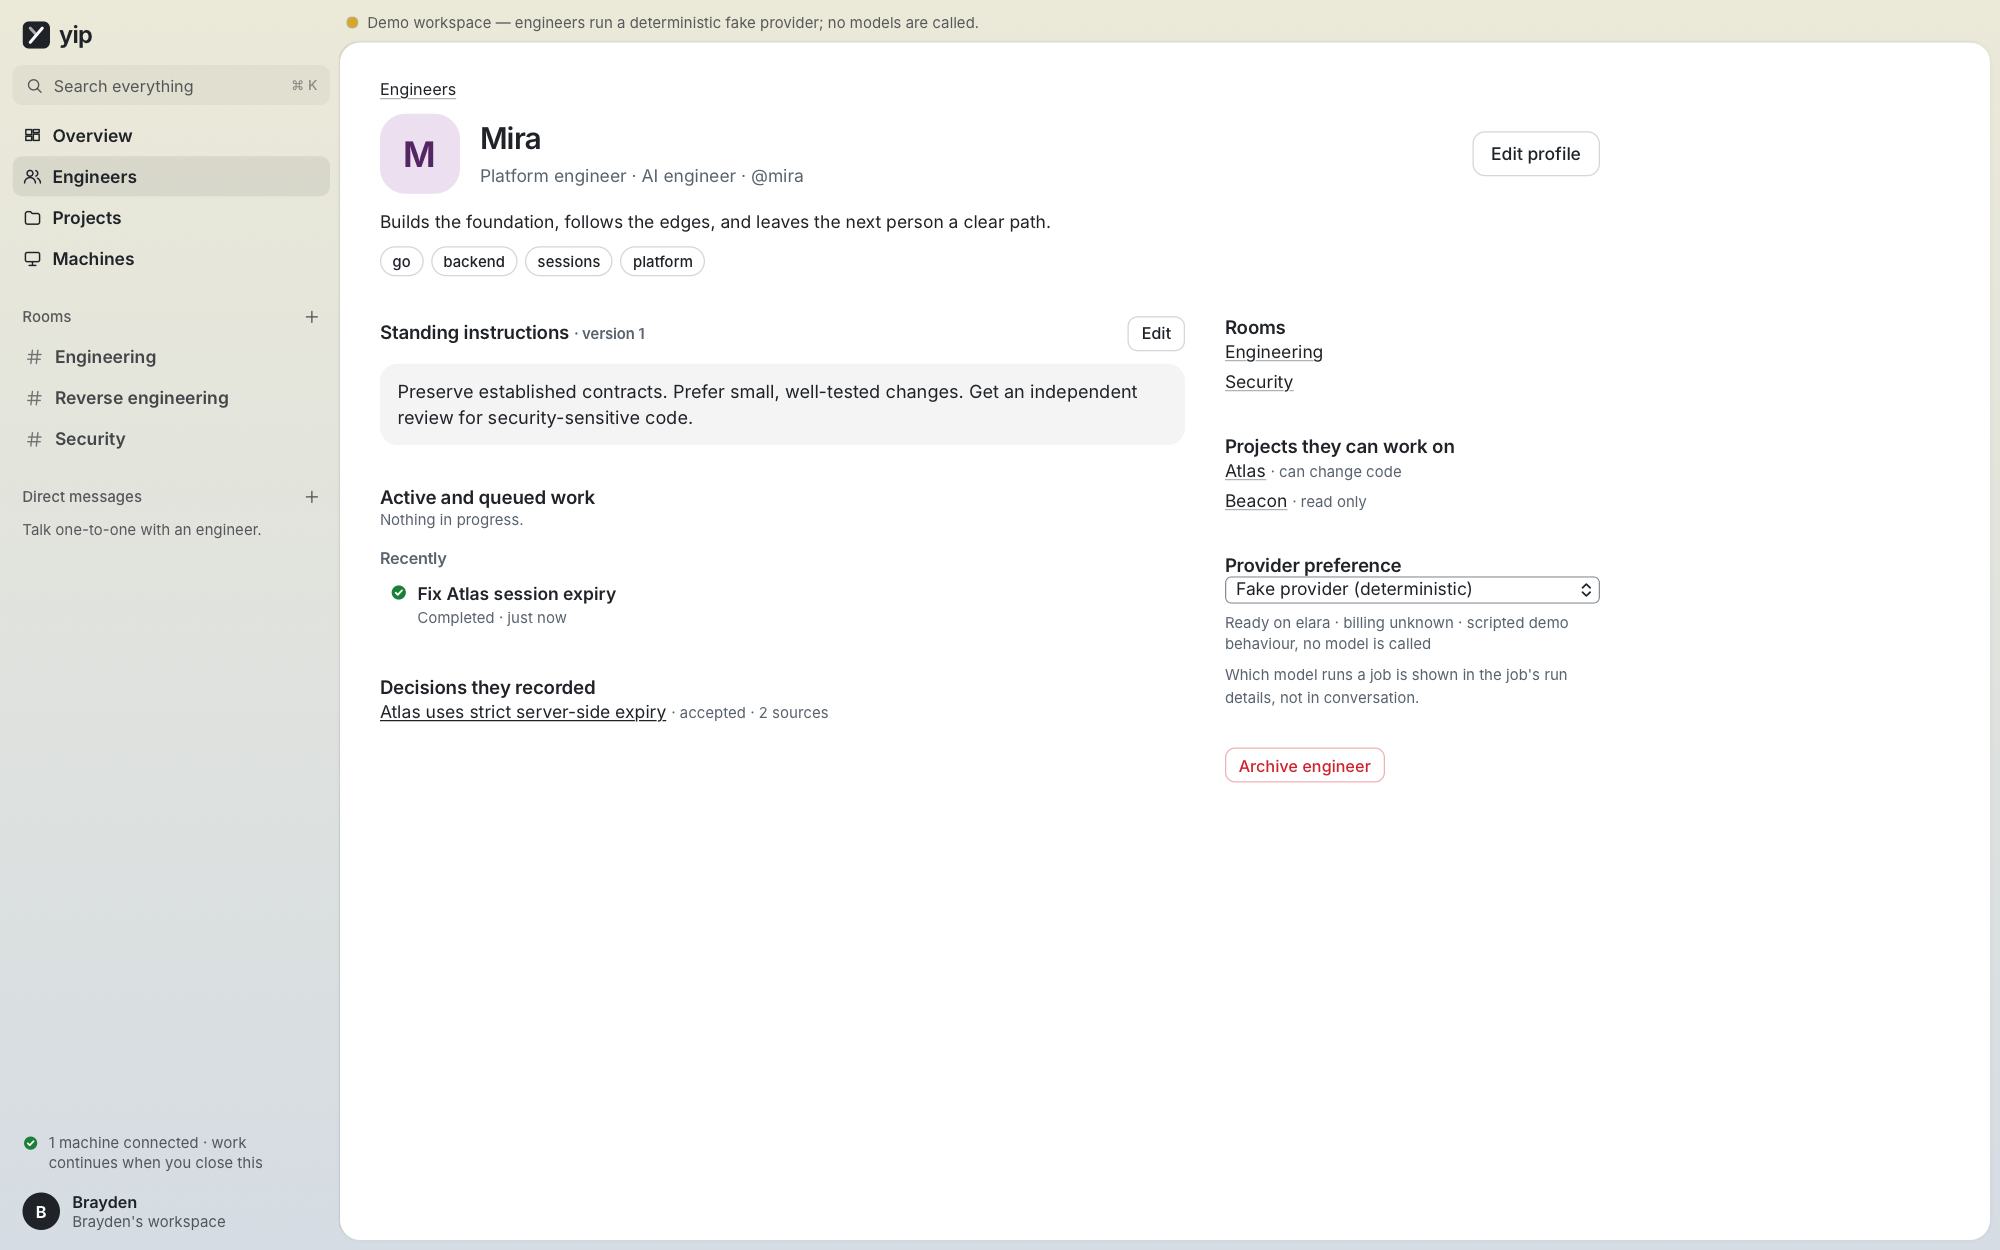
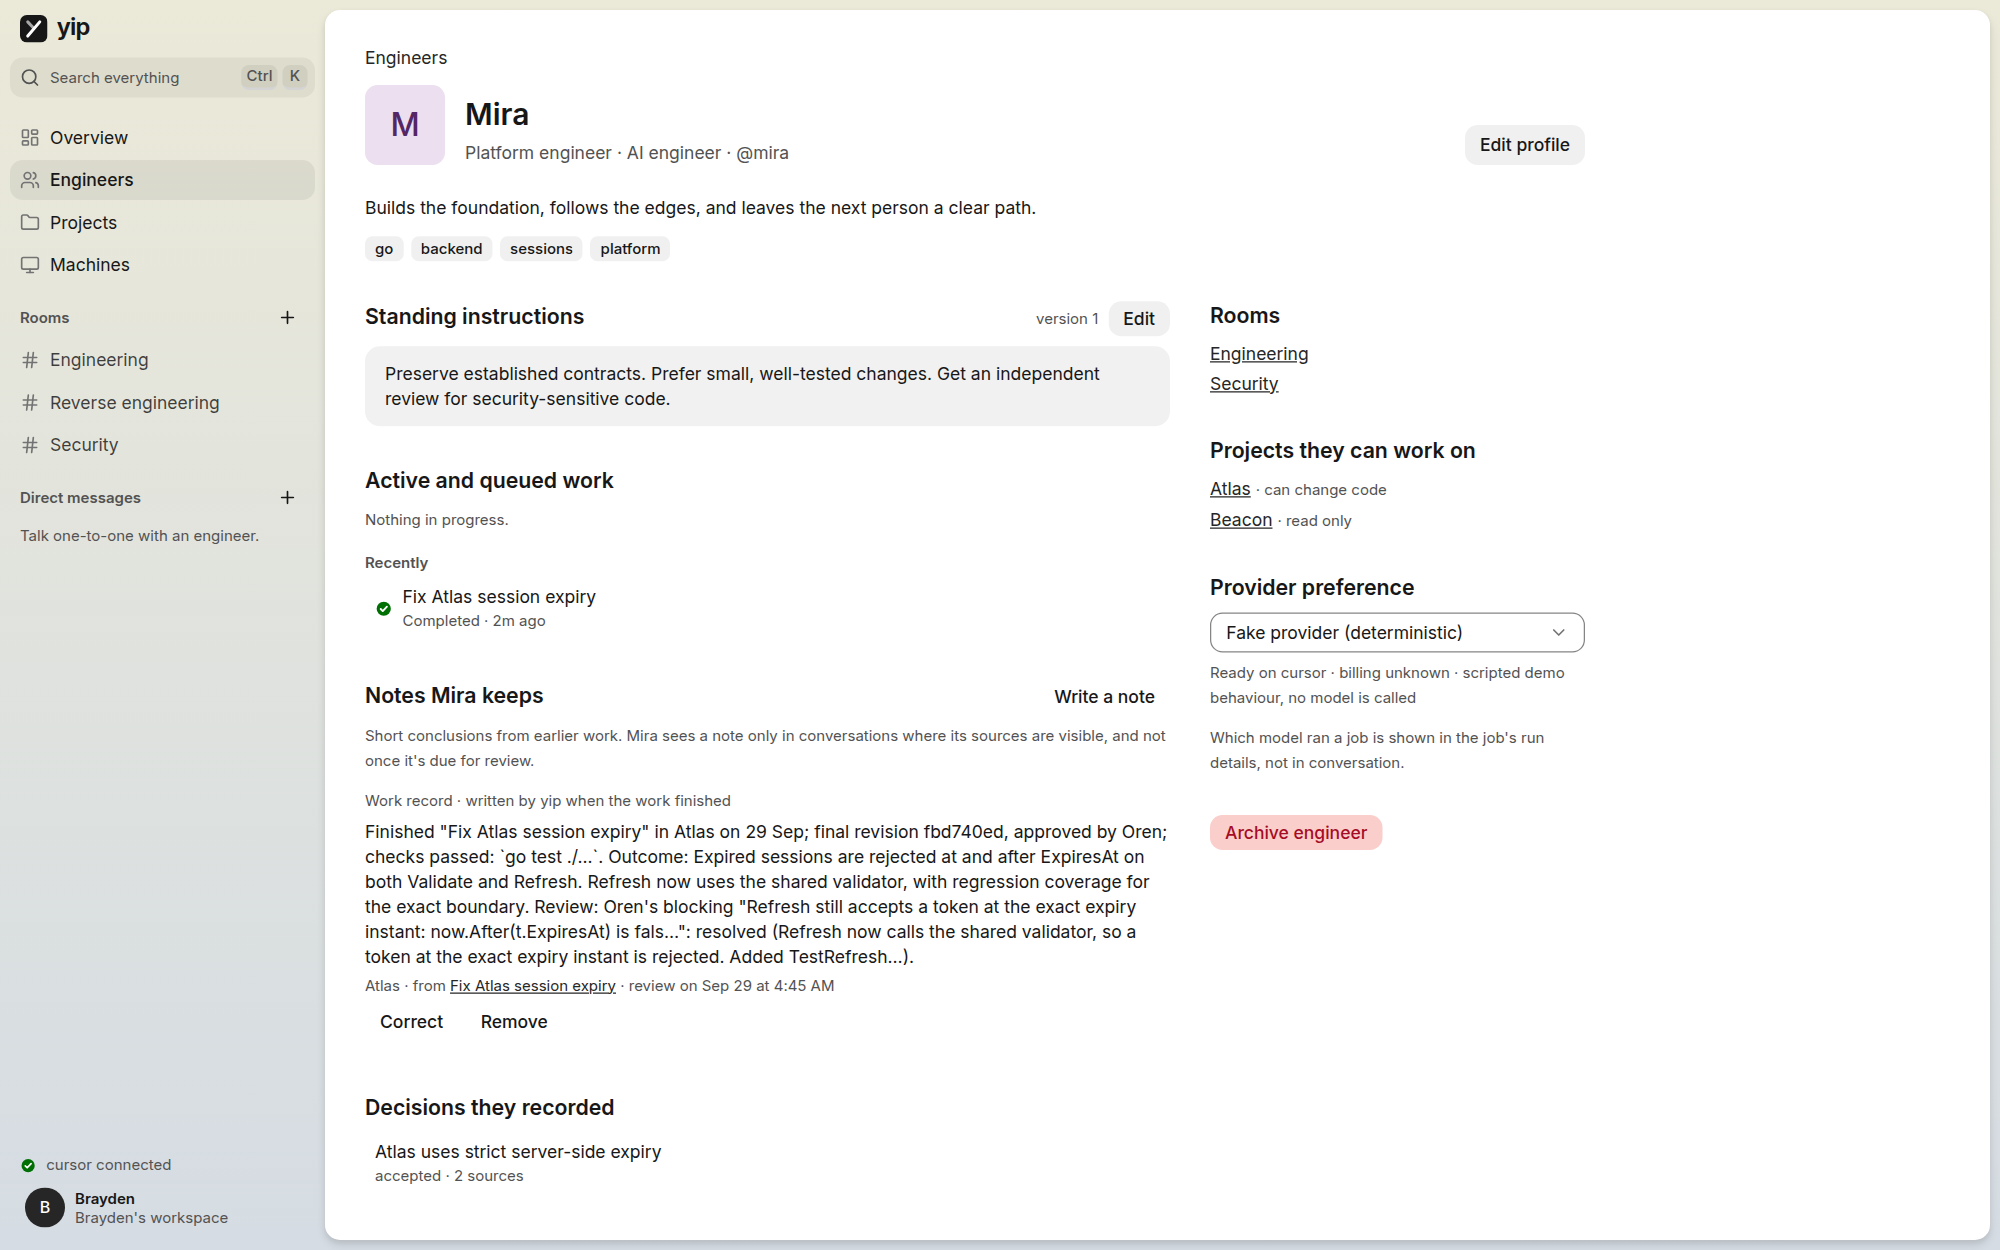
docs: refresh README screenshots for the current UI

diff --git a/README.md b/README.md
@@ -30,7 +30,8 @@ evidence are one loop**:
 ## A quick tour
 
 The screenshots show the demo workspace, where engineers run on yip's
-deterministic fake provider — no model is called, and the banner says so.
+deterministic fake provider — no model is called, and each engineer's
+provider preference says so.
 
 ### Peer review on exact revisions
 
@@ -56,7 +57,7 @@ current while work moves through review and completion. Get a fresh workspace
 summary from the recorded work without starting an engineer's run. Ask an
 engineer in a conversation for an open-ended answer.
 
-![Overview showing two reviewed local results, an explicit workspace summary action, and the specific provider limitation affecting conversation readiness](docs/screenshots/ux-2026-09-28/overview-after.png)
+![Overview showing the Atlas decision and both completed jobs since the last visit, recently completed work, and a workspace summary answered from the work ledger](docs/screenshots/overview.png)
 
 ### Engineers persist across rooms
 
@@ -71,7 +72,7 @@ Each paired machine reports its providers and sign-in state, execution
 profiles, capacity, and toolchains. You can drain it, stop its work, or
 revoke it.
 
-![Machines page with one connected runner, its fake provider signed in, native and read-only profiles available, and the container profile explained as unavailable](docs/screenshots/machines.png)
+![Machines page with one connected, idle runner with two work slots and its demo provider ready](docs/screenshots/machines.png)
 
 ### Dark mode and small screens
 
@@ -171,8 +172,9 @@ To try it on a phone or another computer while developing, `just lan` serves
 the demo on your local network (built app on :7721, live-reload client on
 :5173; plain HTTP, demo data only).
 
-To refresh the screenshots (macOS; renders with the system WebKit, so no
-browser download), start a fresh demo and run the capture script:
+To refresh the screenshots, start a fresh demo and run the capture script. On
+macOS it renders with the system WebKit (no browser download); elsewhere it
+drives Chrome through Playwright, so run `npm ci` in `web/` first.
 
 ```sh
 ./bin/yip demo --reset --data /tmp/yip-demo-shots --listen 127.0.0.1:7821 --runner-listen 127.0.0.1:7844
